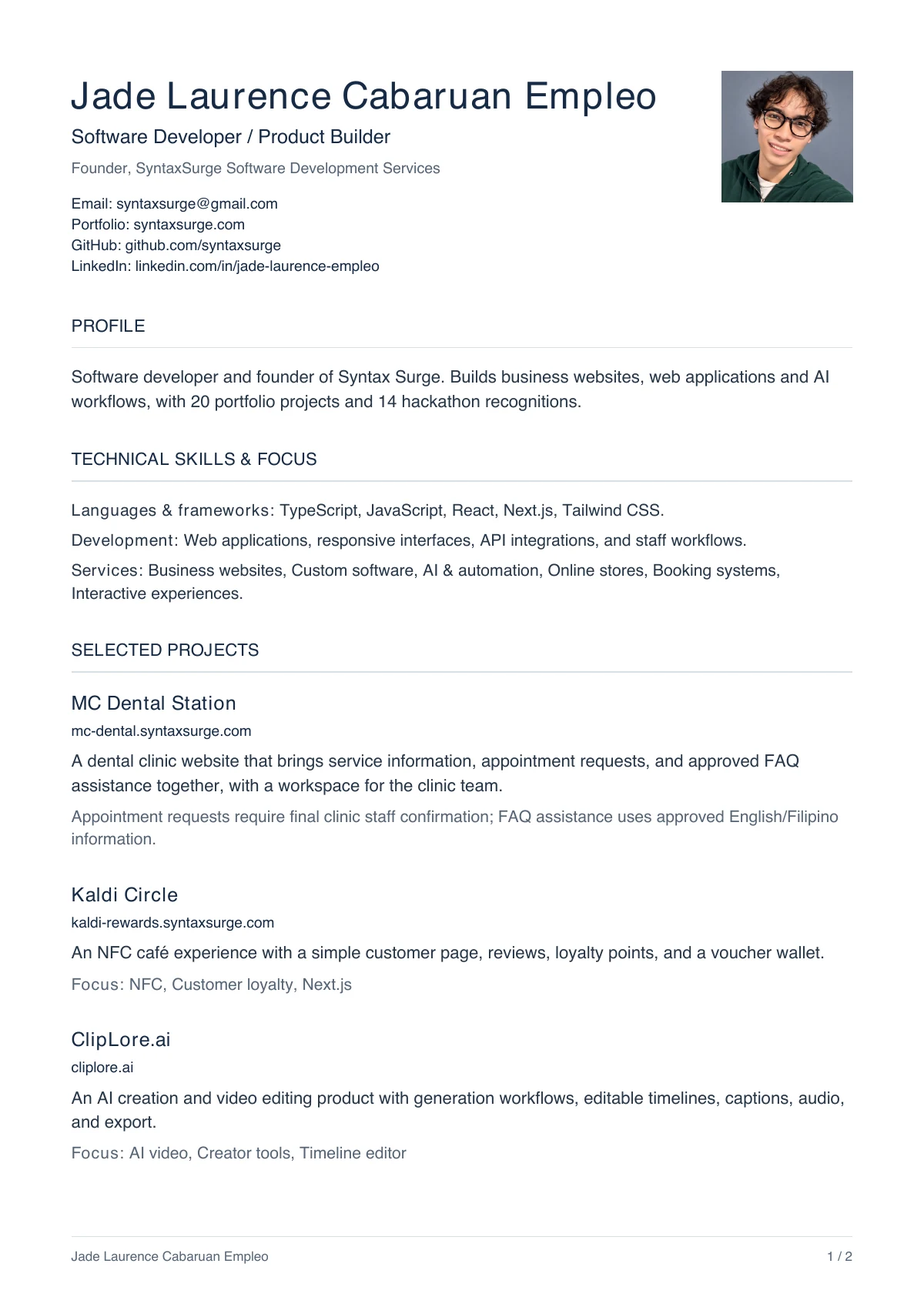
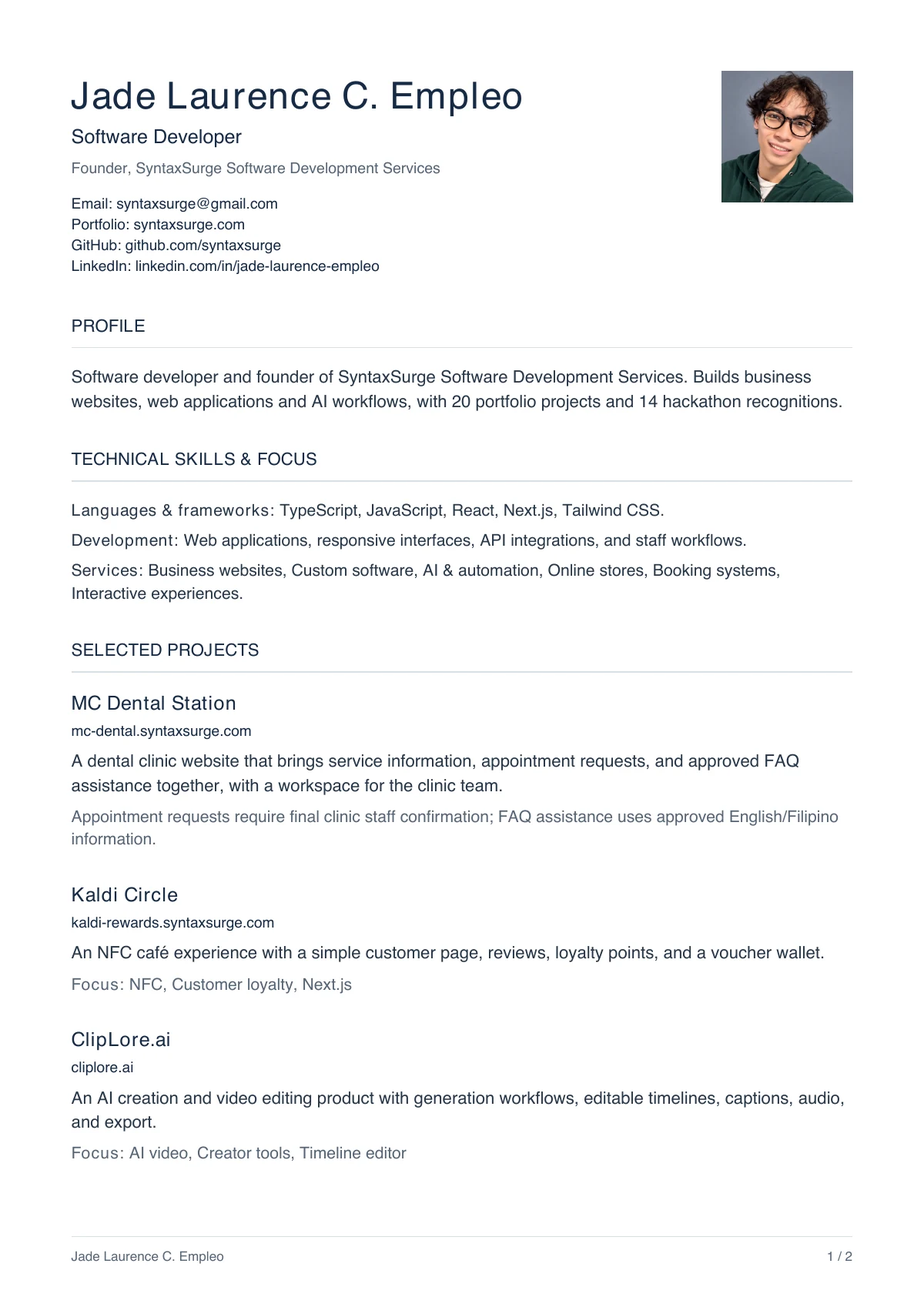
fix(resume): Clarify identity and show recorded award prizes

Changed region(s): [[0.0925, 0.2809, 0.8942, 0.3121], [0.2775, 0.0624, 0.7092, 0.1249], [0.185, 0.9364, 0.2775, 0.9676]]

diff --git a/src/app/recognition/page.tsx b/src/app/recognition/page.tsx
@@ -4,11 +4,11 @@ import { Header } from "@/components/header";
 import { Footer } from "@/components/footer";
 import { AwardCard } from "@/components/award-card";
 import { awards } from "@/data/portfolio";
+import { business } from "@/data/business";
 
 export const metadata: Metadata = {
   title: "Recognition",
-  description:
-    "Explore 14 hackathon recognitions earned by Jade Laurence Empleo, founder of Syntax Surge, with project demos and details.",
+  description: `Explore ${awards.length} hackathon recognitions earned by ${business.founder.name}, founder of ${business.legalName}, with project demos and details.`,
   alternates: { canonical: "/recognition" },
 };
 
@@ -26,8 +26,8 @@ export default function RecognitionPage() {
           <span className="eyebrow section-label">A RECORD OF BUILDING</span>
           <h1>Recognition.</h1>
           <p>
-            {awards.length} hackathon recognitions earned by Jade Laurence
-            Empleo. Explore the projects and their demos.
+            {awards.length} hackathon recognitions earned by {business.founder.name}.
+            Explore the projects and their demos.
           </p>
         </div>
         <div className="awards-grid">

diff --git a/src/data/business.ts b/src/data/business.ts
@@ -11,7 +11,7 @@ export const business = {
     github: "https://github.com/syntaxsurge",
   },
   founder: {
-    name: "Jade Laurence Empleo",
+    name: "Jade Laurence C. Empleo",
     fullName: "Jade Laurence Cabaruan Empleo",
     role: "Founder & Software Developer",
     portrait: {
@@ -26,13 +26,13 @@ export const business = {
       src: "/images/resume-page-1.webp",
       width: 1200,
       height: 1698,
-      alt: "Résumé page 1: Jade Laurence Cabaruan Empleo's profile, contact details, skills, and selected projects",
+      alt: "Résumé page 1: Jade Laurence C. Empleo's profile, contact details, skills, and selected projects",
     },
     {
       src: "/images/resume-page-2.webp",
       width: 1200,
       height: 1698,
-      alt: "Résumé page 2: Jade Laurence Cabaruan Empleo's 14 dated hackathon recognitions",
+      alt: "Résumé page 2: Jade Laurence C. Empleo's 14 dated hackathon recognitions and supplied prizes",
     },
   ],
   workspacePhoto: {

diff --git a/src/components/founder-card.tsx b/src/components/founder-card.tsx
@@ -59,7 +59,7 @@ export function FounderCard() {
         <div className={styles.portrait}>
           <Image
             src={business.founder.portrait.src}
-            alt="Jade Laurence Empleo, founder of Syntax Surge"
+            alt={`${business.founder.name}, founder of ${business.legalName}`}
             width={business.founder.portrait.width}
             height={business.founder.portrait.height}
             sizes="(max-width: 700px) 100vw, 440px"
@@ -152,7 +152,7 @@ export function FounderCard() {
             href={business.links.linkedin}
             target="_blank"
             rel="noopener noreferrer"
-            aria-label="Meet Jade Laurence Empleo on LinkedIn (opens in a new tab)"
+            aria-label={`Meet ${business.founder.name} on LinkedIn (opens in a new tab)`}
           >
             <Arrow diagonal />
           </a>

diff --git a/src/app/globals.css b/src/app/globals.css
@@ -466,6 +466,7 @@ img {
 }
 .award-card-meta {
   display: flex;
+  flex-wrap: wrap;
   justify-content: space-between;
   align-items: center;
   gap: 12px;
@@ -475,6 +476,10 @@ img {
 }
 .award-prize {
   color: var(--accent);
+  font-weight: 600;
+}
+.award-prize strong {
+  font-weight: 700;
 }
 .award-card h2 {
   font-size: 28px;
@@ -616,10 +621,8 @@ img {
 .detail-award .detail-award-meta {
   font-size: 16px;
 }
-.detail-award strong {
-  display: inline-block;
-  margin-top: 13px;
-  font-weight: 700;
+.detail-award .award-prize {
+  font-size: 18px;
   color: var(--accent);
 }
 .project-navigation {

diff --git a/src/app/work/[slug]/page.tsx b/src/app/work/[slug]/page.tsx
@@ -130,7 +130,11 @@ export default async function ProjectPage({
                       { month: "long", year: "numeric", timeZone: "UTC" },
                     )}
                   </p>
-                  {a.prize && <strong>{a.prize}</strong>}
+                  {a.prize && (
+                    <p className="award-prize">
+                      Prize: <strong>{a.prize}</strong>
+                    </p>
+                  )}
                 </div>
               ))
             ) : p.id === "wrap-it-up" ? (

diff --git a/src/components/award-card.tsx b/src/components/award-card.tsx
@@ -59,7 +59,11 @@ export function AwardCard({
               timeZone: "UTC",
             })}
           </time>
-          {award.prize && <span className="award-prize">{award.prize}</span>}
+          {award.prize && (
+            <span className="award-prize">
+              Prize: <strong>{award.prize}</strong>
+            </span>
+          )}
         </div>
         <h2>
           <Link href={`/work/${award.projectId}`}>{project.title}</Link>

diff --git a/scripts/build-resume.py b/scripts/build-resume.py
@@ -25,7 +25,7 @@ from reportlab.platypus import Paragraph
 
 
 ROOT = Path(__file__).resolve().parents[1]
-ROLE = "Software Developer / Product Builder"
+ROLE = "Software Developer"
 WEBSITE = "https://syntaxsurge.com/"
 SELECTED_PROJECTS = ("mc-dental-station", "kaldi", "cliplore-ai")
 PAGE_WIDTH, PAGE_HEIGHT = A4
@@ -106,27 +106,27 @@ def section(pdf, label, y):
     return y - 18
 
 
-def footer(pdf, page, full_name):
+def footer(pdf, page, display_name):
     pdf.setStrokeColor(LINE)
     pdf.setLineWidth(0.65)
     pdf.line(MARGIN, 45, PAGE_WIDTH - MARGIN, 45)
     pdf.setFont("Helvetica", 8.5)
     pdf.setFillColor(MUTED)
-    pdf.drawString(MARGIN, 29, full_name)
+    pdf.drawString(MARGIN, 29, display_name)
     pdf.drawRightString(PAGE_WIDTH - MARGIN, 29, f"{page} / 2")
 
 
 def first_page(pdf, data):
     business = data["business"]
-    full_name = business["founder"]["fullName"]
+    display_name = business["founder"]["name"]
     projects = {project["id"]: project for project in data["projects"]}
     photo_size = 84
     header_width = CONTENT_WIDTH - photo_size - 20
     y = PAGE_HEIGHT - MARGIN
     name_size = 24
-    if stringWidth(full_name, "Helvetica-Bold", name_size) > header_width:
+    if stringWidth(display_name, "Helvetica-Bold", name_size) > header_width:
         name_size = 22
-    y = paragraph(pdf, plain(full_name), y, header_width, style(name_size, 29, True, NAVY))
+    y = paragraph(pdf, plain(display_name), y, header_width, style(name_size, 29, True, NAVY))
     y -= 5
     y = paragraph(pdf, ROLE, y, header_width, style(12.5, 17, color=NAVY))
     y -= 5
@@ -152,7 +152,7 @@ def first_page(pdf, data):
 
     y = section(pdf, "Profile", y)
     summary = (
-        f'Software developer and founder of {business["name"]}. Builds business '
+        f'Software developer and founder of {business["legalName"]}. Builds business '
         "websites, web applications and AI workflows, with "
         f'{len(data["projects"])} portfolio projects and '
         f'{len(data["awards"])} hackathon recognitions.'
@@ -191,16 +191,16 @@ def first_page(pdf, data):
         else:
             y = paragraph(pdf, f'<b>Focus:</b> {plain(", ".join(project["tags"]))}', y, text_style=style(10.5, 14.5, color=MUTED))
         y -= 20
-    footer(pdf, 1, full_name)
+    footer(pdf, 1, display_name)
     pdf.showPage()
 
 
 def recognition_page(pdf, data):
-    full_name = data["business"]["founder"]["fullName"]
+    display_name = data["business"]["founder"]["name"]
     projects = {project["id"]: project for project in data["projects"]}
     awards = sorted(data["awards"], key=lambda award: award["date"], reverse=True)
     y = PAGE_HEIGHT - MARGIN
-    y = paragraph(pdf, plain(full_name), y, text_style=style(14, 19, True, NAVY))
+    y = paragraph(pdf, plain(display_name), y, text_style=style(14, 19, True, NAVY))
     y = paragraph(pdf, ROLE, y - 3, text_style=style(10, 14, color=MUTED))
     y -= 21
     y = paragraph(pdf, "Recognition", y, text_style=style(21, 27, True, NAVY))
@@ -218,17 +218,20 @@ def recognition_page(pdf, data):
         pdf.drawRightString(PAGE_WIDTH - MARGIN, y - 11, f"{calendar.month_abbr[int(month)]} {year}")
         title = f'{project["title"]} - {award["title"]}'
         y = paragraph(pdf, plain(title), y, title_width, style(10.5, 14.5, True, NAVY))
-        y = paragraph(pdf, plain(award["event"]), y - 2, title_width, style(10.3, 14, color=MUTED))
+        event = award["event"]
+        if award.get("prize"):
+            event += f' | Prize: {award["prize"]}'
+        y = paragraph(pdf, plain(event), y - 2, CONTENT_WIDTH, style(10.3, 14, color=MUTED))
         y -= 13
-    footer(pdf, 2, full_name)
+    footer(pdf, 2, display_name)
     pdf.showPage()
 
 
 def write_pdf(path, data):
-    full_name = data["business"]["founder"]["fullName"]
+    display_name = data["business"]["founder"]["name"]
     pdf = canvas.Canvas(str(path), pagesize=A4, pageCompression=1, invariant=True)
-    pdf.setTitle(f"{full_name} - Resume")
-    pdf.setAuthor(full_name)
+    pdf.setTitle(f"{display_name} - Resume")
+    pdf.setAuthor(display_name)
     pdf.setSubject(ROLE)
     pdf.setKeywords("Software Developer, Product Builder, TypeScript, React, Next.js")
     first_page(pdf, data)

diff --git a/docs/RESUME-SOURCES.md b/docs/RESUME-SOURCES.md
@@ -4,20 +4,20 @@
 
 ## Verified source facts
 
-- **Full name:** Jade Laurence Cabaruan Empleo, transcribed from the proprietor name in the supplied original DTI certificate at `public/documents/syntax-surge-dti-certificate.pdf` and stored in `business.founder.fullName`. The professional site profile uses `business.founder.name`, Jade Laurence Empleo.
-- **Role/business:** Software Developer / Product Builder; founder of SyntaxSurge Software Development Services. The founder role and business legal name come from `src/data/business.ts`, with the product-building summary supported by the project record.
-- **Profile and services:** the concise profile reads the business name and the canonical totals of 20 portfolio projects and 14 hackathon recognitions. The service line reads the six titles in `business.services`: business websites, custom software, AI/automation, online stores, booking systems, and interactive experiences. Project totals represent portfolio work, not paid clients.
+- **Name:** the public site and resume use `business.founder.name`, Jade Laurence C. Empleo, with the owner's preferred middle initial. `business.founder.fullName` preserves Jade Laurence Cabaruan Empleo, transcribed from the proprietor name in the supplied original DTI certificate at `public/documents/syntax-surge-dti-certificate.pdf`; the resume does not display that full middle name.
+- **Role/business:** Software Developer; founder of SyntaxSurge Software Development Services. Both the founder line and profile use the complete DTI-registered business name from `business.legalName` in `src/data/business.ts`.
+- **Profile and services:** the concise profile reads the legal business name and the canonical totals of 20 portfolio projects and 14 hackathon recognitions. The service line reads the six titles in `business.services`: business websites, custom software, AI/automation, online stores, booking systems, and interactive experiences. Project totals represent portfolio work, not paid clients.
 - **Photograph:** the unchanged owner-supplied `public/images/jade-laurence-empleo.jpg`, selected through `business.founder.portrait.src`. The complete square image is scaled into a small header photograph; no retouching or replacement image is used.
 - **Contact links:** the owner supplied `syntaxsurge@gmail.com` as the public business email; it is read from `business.email` with its `business.links.email` mailto destination. Existing LinkedIn/GitHub URLs come from `business.links`, plus the public business website `https://syntaxsurge.com/`. No phone number or private address is included, and no message is sent by generating or serving the resume.
 - **Selected projects:** MC Dental Station, Kaldi Circle, and ClipLore.ai (`cliplore-ai`). Their titles, summaries, primary website links, and tags are read from `src/data/portfolio.ts`. ClipLore.ai is the current AI creation and video editing product at `https://cliplore.ai/`; the separate Story Protocol project is not one of these selected product examples. MC Dental's additional note preserves staff confirmation for appointments and approved English/Filipino FAQ assistance.
 - **Technical skills:** TypeScript, JavaScript, React, Next.js, and Tailwind CSS are supported by this site's source and package manifest; application/API integration and staff workflows are also supported by the owner's MC Dental Station repository. Interface/product work and AI experiences are represented by the site services and project examples. No proficiency ratings or years of experience are inferred.
-- **Recognition:** every entry in the canonical `awards` array is included, sorted from newest to oldest. Each lists its project, placement/title, event, and supplied month/year. The Story Protocol recognition belongs to `cliplore`, displayed as ClipLore for Story Protocol; it is not attributed to ClipLore.ai. Titles remain distinct: recognitions are not relabeled as first-place wins, and no prize totals are added. Award provenance remains in `docs/CONTENT-SOURCES.md` and `docs/AWARD-MEDIA-SOURCES.md`.
+- **Recognition:** every entry in the canonical `awards` array is included, sorted from newest to oldest. Each lists its project, placement/title, event, and supplied month/year. Known `award.prize` amounts appear with a `Prize:` prefix; entries without a supplied amount omit that field rather than implying zero. US dollar prizes retain `US$`, and CreatorBank's `2,000 MUSD` retains its token denomination without conversion. The Story Protocol recognition belongs to `cliplore`, displayed as ClipLore for Story Protocol; it is not attributed to ClipLore.ai. Titles remain distinct: recognitions are not relabeled as first-place wins. No aggregate prize total, personal payout or prize-disbursement verification is claimed. Award provenance remains in `docs/CONTENT-SOURCES.md` and `docs/AWARD-MEDIA-SOURCES.md`.
 
 No education, qualifications, employment history, employment dates, client statistics, or revenue claims are invented. The document summarizes the owner's supplied work/award history; it does not assert independent authentication of prize disbursement or government registration status.
 
 ## Rebuild
 
-The editable source is `scripts/build-resume.py`. It reads canonical business/project/award exports through Node's TypeScript stripping support, generates the public PDF with ReportLab, and renders both pages with Poppler before encoding WebP previews with Pillow. There is no separate permanent resume JSON file to synchronize. The concise editorial summary/skills live in the generator; the full name, project/contact/recognition facts, service titles, totals, and portrait path come from site data. `business.resumeHref` supplies the generated PDF path, and `business.resumePreview` supplies each page image path and expected intrinsic dimensions. The generator requires its rendered pages to match those dimensions before publishing.
+The editable source is `scripts/build-resume.py`. It reads canonical business/project/award exports through Node's TypeScript stripping support, generates the public PDF with ReportLab, and renders both pages with Poppler before encoding WebP previews with Pillow. There is no separate permanent resume JSON file to synchronize. The concise editorial summary/skills live in the generator; the display name, legal business name, project/contact/recognition facts and supplied prize amounts, service titles, totals, and portrait path come from site data. `business.resumeHref` supplies the generated PDF path, and `business.resumePreview` supplies each page image path and expected intrinsic dimensions. The generator requires its rendered pages to match those dimensions before publishing.
 
 Use the project's supported Node version, Python with `reportlab`, `Pillow`, and `pypdf`, and Poppler's `pdftoppm`:
 
@@ -29,4 +29,4 @@ If non-default tools are required, set `RESUME_NODE` and `RESUME_PDFTOPPM` to th
 
 Preview pages are 1200 pixels wide, preserve the A4 page ratio, and use WebP quality 88. The PDF uses invariant ReportLab metadata; repeated builds with the same canonical data, authoring dependencies, and font configuration produce identical assets. ReportLab, Pillow, pypdf, Node-based extraction, and Poppler are authoring dependencies only. Deployment serves the committed PDF and images without running Python or rendering a document at request time.
 
-Before publishing a regenerated set, inspect both preview images for spacing, text, the photograph, page numbers, and legibility. Verify the PDF's contact/project link targets and that all canonical award titles/events and all three selected projects remain present. The generator fails if content exceeds its page bounds rather than shrinking text to an unreadable size. This source record and local artifact do not imply that a website update has been deployed.
+Before publishing a regenerated set, inspect both preview images for spacing, text, the photograph, page numbers, and legibility. Verify the PDF's contact/project link targets, display/legal names, supplied prize amounts, and that all canonical award titles/events and all three selected projects remain present. The generator fails if content exceeds its page bounds rather than shrinking text to an unreadable size. This source record and local artifact do not imply that a website update has been deployed.

diff --git a/AGENTS.md b/AGENTS.md
@@ -39,14 +39,14 @@ Analyze → Extend → Simplify → Delete. Every change should either improve c
 
 # Platform Summary
 
-A Next.js App Router business website for SyntaxSurge Software Development Services, branded as Syntax Surge. It presents business websites, custom software, and AI/automation services, with 20 projects and 14 hackathon recognitions earned by founder Jade Laurence Empleo. Supplied business branding, founder photography, and project artwork are served locally. Pages support light and dark themes and responsive, keyboard-accessible navigation.
+A Next.js App Router business website for SyntaxSurge Software Development Services, branded as Syntax Surge. It presents business websites, custom software, and AI/automation services, with 20 projects and 14 hackathon recognitions earned by founder Jade Laurence C. Empleo. Supplied business branding, founder photography, and project artwork are served locally. Pages support light and dark themes and responsive, keyboard-accessible navigation.
 
 ## Pages
 
 - `/`: business overview with the supplied working-session photograph over a local looping hero background, six compact scroll-through illustrated services (`#services`), all 20 visual project cards (`#work`), founder/team (`#team`), business registration (`#registration`), and contact (`#contact`). The shared sticky header uses a single icon-only theme button and icon-labeled native fragment links to homepage Services/Work/Team and the current page's contact footer, including repeated visits to the same section. At widths up to 850px, a hamburger beside the theme button opens vertical navigation; selection, outside click, Escape, and resizing to desktop close it, with Escape restoring trigger focus. Desktop navigation remains inline. Work provides All projects, Websites & apps, Experiments, and Tools filters mapped to canonical project categories, category/result counts, combined search, one-click reset with search focus restoration, and direct details/website actions. Cards present a cover, title, and plain-language summary; video previews use accessible play icons. Hero and team View résumé buttons open one shared native dialog with two scrollable page previews and a persistent PDF download/close toolbar. Escape, backdrop selection and the close button dismiss the dialog and restore focus to the originating button; background scrolling is locked while it is open. The homepage links to the recognition record.
 - `/work`: a permanent redirect to `/#work`; it is not a separate page or sitemap entry.
-- `/recognition`: all 14 founder hackathon recognitions, with four preview highlights and compact cards for the remaining entries. Awards are individual project achievements, not a count of business clients or first-place wins.
-- `/work/[slug]`: statically generated project details with breadcrumbs, product/demo/source actions, a plain-language overview, recognition, and links to the next project and full collection. `/work/wrap-it-up` combines these project details with the game overview, gameplay features, artwork, beta-install actions, and shared Support/Privacy navigation.
+- `/recognition`: all 14 founder hackathon recognitions, with four preview highlights and compact cards for the remaining entries. Cards include labeled prize amounts when supplied. Awards are individual project achievements, not a count of business clients or first-place wins.
+- `/work/[slug]`: statically generated project details with breadcrumbs, product/demo/source actions, a plain-language overview, recognition with a labeled prize amount when supplied, and links to the next project and full collection. Prize currencies retain their original USD or MUSD denomination. `/work/wrap-it-up` combines these project details with the game overview, gameplay features, artwork, beta-install actions, and shared Support/Privacy navigation.
 - `/work/mc-dental-station`: clinic website project details covering staff-confirmed appointment requests, approved English/Filipino FAQ assistance, and the staff workspace; the live website is `https://mc-dental.syntaxsurge.com/`.
 - `/work/cliplore`: ClipLore for Story Protocol, an AI & Web3 project with IP registration, licensing, remixing, and ownership enforcement. Its source repository, hackathon demo, and December 2025 Story Protocol recognition belong to this record.
 - `/work/cliplore-ai`: ClipLore.ai, the current AI creation and video editing product in Products, linking to `https://cliplore.ai/`. Its generation workflows, timeline, captions, audio, and export are presented separately from the Story Protocol project and award.
@@ -60,7 +60,7 @@ There are no application API endpoints, database, authentication, contact form, 
 
 ## Architecture Overview
 
-- `src/data/business.ts` is the canonical source for the business brand/legal name, service descriptions and illustrations, supplied logo, founder professional/full name and portrait, email/contact links, workspace hero photograph, local work-sculpture poster/video, resume path, and registration certificate facts/assets. `certificate.href` points to the original local PDF; `certificate.preview` supplies the rendered image's `src`, `width`, and `height`. `resumeHref` points to the two-page professional resume. `resumePreview` contains the two local WebP page paths, intrinsic dimensions and descriptive alt text. `scripts/build-resume.py` generates the PDF and both page previews together from canonical site data; the site serves these committed assets without a document-rendering service.
+- `src/data/business.ts` is the canonical source for the business brand/legal name, service descriptions and illustrations, supplied logo, founder professional/full name and portrait, email/contact links, workspace hero photograph, local work-sculpture poster/video, resume path, and registration certificate facts/assets. The site and résumé use `founder.name`, Jade Laurence C. Empleo; `founder.fullName` retains the certificate identity. `certificate.href` points to the original local PDF; `certificate.preview` supplies the rendered image's `src`, `width`, and `height`. `resumeHref` points to the two-page professional resume, which uses the complete legal business name and each supplied recognition prize amount in its original currency. Missing prize amounts are omitted. `resumePreview` contains the two local WebP page paths, intrinsic dimensions and descriptive alt text. `scripts/build-resume.py` generates the PDF and both page previews together from canonical site data; the site serves these committed assets without a document-rendering service.
 - `src/data/portfolio.ts` is the canonical project, link, optional project-focus, and award data source. `src/data/award-media.ts` maps all 14 recognitions to authentic local project previews and YouTube demos; `src/data/project-media.ts` supplies media, plain-language summaries, and optional demos for all 20 visual cards, reusing those project previews and official product artwork. Each project has one canonical preview image shared by collection and detail views; collection cards use a 16:9 cover crop, while detail covers use the image's intrinsic aspect ratio. `cliplore` owns the Story Protocol award/demo media; `cliplore-ai` owns the official public workflow preview and product link.
 - Shared components provide business navigation/contact, project artwork, award cards, demo previews, search/filter controls, theme controls and the résumé preview. `ResumePreview` owns one native dialog and context for both `ResumeButton` triggers; preview images mount only while open, and the native dialog supplies focus containment. Its page images match the downloadable PDF on desktop and phones. `AwardCard` supports preview and compact layouts. Business metadata, the social preview, and the favicon use Syntax Surge branding; the supplied logo is preserved.
 - Search/filter state lives in `ProjectArchive`. Its homepage demo actions use a privacy-enhanced inline YouTube player, with one active video at a time, an accessible close control, and focus restoration. No YouTube iframe loads before a play action; project/recognition pages also retain direct external demo links. `src/lib/theme.ts` manages device preference, persisted selections, cross-tab updates, and initialization before visible content.

diff --git a/docs/ASSET-SOURCES.md b/docs/ASSET-SOURCES.md
@@ -5,7 +5,7 @@ Product covers were collected and visually checked on 25 September 2026; supplie
 | File in `public/images` | Source | Treatment and accurate description |
 | --- | --- | --- |
 | `syntaxsurge-logo.jpg` | Original logo supplied by the owner | 640 × 640. Blue lightning bolt and black code brackets on a white background. Copied unchanged; used for business navigation, homepage identity, the social preview, and the self-contained SVG favicon. No redraw, recoloring, or background removal. |
-| `jade-laurence-empleo.jpg` | Original founder photograph supplied by the owner | 1254 × 1254. Jade Laurence Empleo, founder of Syntax Surge. Copied unchanged; displayed in the team section. |
+| `jade-laurence-empleo.jpg` | Original founder photograph supplied by the owner | 1254 × 1254. Jade Laurence C. Empleo, founder of SyntaxSurge Software Development Services. Copied unchanged; displayed in the team section. |
 | `syntax-surge-workspace.webp` | Working-session photograph supplied by the owner | 1200 × 1600, 277,516 bytes. The unchanged local WebP derivative shows the whiteboard, laptops and two people working together. Displayed beside the hero copy on desktop and beneath it on phones, above the video background. A 4:3 crop at 50% 25% retains both people and the desk. |
 | `mc-dental-feature.webp` | Higgsfield GPT Image 2.5 job `80363250-5439-4665-a3ed-cedb538e9c88` | 1600 × 905, 27,420 bytes. Generated clinic concept artwork with a porcelain tooth and abstract appointment/chat/service cards, optimized from the 2688 × 1520 source PNG. It is not a clinic photograph, staff portrait, screenshot, or clinical outcome claim. |
 | `studysoda-cover.webp` | Existing `studyroom/public/media/studysoda-hero.webp`; [StudySoda](https://studysoda.com/) | 1400 × 792. Existing brand artwork: lavender flashcards, a notebook, and a lime soda. Use as a brand cover, not as a screenshot or a claim about product UI. |
@@ -31,7 +31,7 @@ Suggested image descriptions:
 - ClipLore.ai: “ClipLore.ai homepage preview with a video canvas and layered timeline.”
 - ClipLore for Story Protocol: “ClipLore video IP studio homepage in the hackathon demo.”
 - Business logo: “Syntax Surge blue lightning bolt and black code brackets logo”; use empty alt text when the neighboring business name already identifies the navigation link.
-- Founder: “Jade Laurence Empleo, founder of Syntax Surge.”
+- Founder: “Jade Laurence C. Empleo, founder of SyntaxSurge Software Development Services.”
 - MC Dental Station: “MC Dental Station project artwork with a porcelain tooth and abstract appointment, chat, and service cards.”
 
 ## Hero photograph, loop and service illustrations
@@ -64,7 +64,7 @@ The certificate spells the legal name **SYNTAXSURGE SOFTWARE DEVELOPMENT SERVICE
 
 ## Professional resume
 
-`public/documents/jade-laurence-empleo-resume.pdf` is the two-page A4 resume generated by `scripts/build-resume.py` from canonical site data. It includes the unchanged supplied portrait, full name, business email, three project examples, all 14 dated recognitions, and website/profile links. `business.resumeHref` supplies the public path, and `business.founder.fullName` supplies the certificate-confirmed full name. Hero and team View résumé buttons open a shared dialog with a direct download of that PDF. `public/images/resume-page-1.webp` and `resume-page-2.webp` are 1200 × 1698 Poppler renderings of its two pages, optimized as WebP without editing document content. They are 137,994 and 108,682 bytes respectively. The generator stages and verifies all three outputs before publishing them together, so a rendering failure leaves the public documents intact. Preview pages load only when the dialog is open; the application needs no PDF plugin or external document service. The complete source/rebuild record is in `docs/RESUME-SOURCES.md`.
+`public/documents/jade-laurence-empleo-resume.pdf` is the two-page A4 resume generated by `scripts/build-resume.py` from canonical site data. It includes the unchanged supplied portrait, preferred display name with a middle initial, complete DTI-registered business name, business email, three project examples, all 14 dated recognitions with supplied prize amounts, and website/profile links. `business.resumeHref` supplies the public path, and `business.founder.name` supplies Jade Laurence C. Empleo; the certificate-confirmed full name remains internal source data. Hero and team View résumé buttons open a shared dialog with a direct download of that PDF. `public/images/resume-page-1.webp` and `resume-page-2.webp` are 1200 × 1698 Poppler renderings of its two pages, optimized as WebP without editing document content. They are 136,574 and 116,486 bytes respectively. The generator stages and verifies all three outputs before publishing them together, so a rendering failure leaves the public documents intact. Preview pages load only when the dialog is open; the application needs no PDF plugin or external document service. The complete source/rebuild record is in `docs/RESUME-SOURCES.md`.
 
 ## Wrap It Up!
 

diff --git a/docs/CONTENT-SOURCES.md b/docs/CONTENT-SOURCES.md
@@ -14,7 +14,7 @@ The site contains 20 named projects and 14 recognition entries. ClipLore.ai and 
 
 ## Business identity and registration
 
-`src/data/business.ts` stores the supplied business brand **Syntax Surge**, registered legal name **SyntaxSurge Software Development Services**, founder professional name **Jade Laurence Empleo**, full name **Jade Laurence Cabaruan Empleo**, service descriptions, business email, and LinkedIn/GitHub contact links. The team section identifies the founder and does not invent additional staff. Business inquiries use the owner-supplied email through a direct mail link, with LinkedIn also available. There is no contact form or server-side email sender.
+`src/data/business.ts` stores the supplied business brand **Syntax Surge**, registered legal name **SyntaxSurge Software Development Services**, owner-requested professional display name **Jade Laurence C. Empleo**, certificate full name **Jade Laurence Cabaruan Empleo**, service descriptions, business email, and LinkedIn/GitHub contact links. The résumé and site profile use the middle initial; the original registration certificate remains unchanged. The team section identifies the founder and does not invent additional staff. Business inquiries use the owner-supplied email through a direct mail link, with LinkedIn also available. There is no contact form or server-side email sender.
 
 The source is the owner's original `BNRS-Certificate_OPQT791819131516_4fa16974-d870-4131-a5e5-1b61dcec90fd.pdf`, preserved unchanged at `public/documents/syntax-surge-dti-certificate.pdf`. Its extracted business name is **SYNTAXSURGE SOFTWARE DEVELOPMENT SERVICES** (no space between Syntax and Surge), scope **National**, Business Name No. **8161608**, issue date **5 May 2026**, and stated validity **5 May 2026 through 5 May 2031**. The named proprietor is **JADE LAURENCE CABARUAN EMPLEO**. These facts describe the supplied certificate; no independent check of ongoing government registration status is asserted.
 
@@ -22,7 +22,7 @@ The homepage presents the legal name and scope with a locally rendered certifica
 
 ## Resume and project presentation
 
-The downloadable two-page resume uses `business.founder.fullName`, the supplied portrait and business email, website/profile links, MC Dental Station/Kaldi/ClipLore.ai examples, and every dated entry from the canonical awards array. The recognition page attributes the Story Protocol award to the separate ClipLore for Story Protocol project. The resume contains no invented education, employment chronology, or phone number. `scripts/build-resume.py` reads the site exports directly; `business.resumeHref` supplies its public download path. The hero and team View résumé buttons open one preview dialog. Its local page images are rendered from the same generated PDF, and its toolbar provides a direct PDF download. Fact-by-fact sourcing and rebuild instructions are in `docs/RESUME-SOURCES.md`.
+The downloadable two-page resume uses `business.founder.name` with the middle initial, the complete `business.legalName` in the founder attribution and profile, the supplied portrait and business email, website/profile links, MC Dental Station/Kaldi/ClipLore.ai examples, and every dated entry from the canonical awards array. The recognition page attributes the Story Protocol award to the separate ClipLore for Story Protocol project. The résumé, recognition cards and individual project recognition sections display each supplied `award.prize` with its original currency and a Prize label. Missing amounts remain omitted, without zero values or estimated amounts; USD and MUSD are not combined into a total. The resume contains no invented education, employment chronology, or phone number. `scripts/build-resume.py` reads the site exports directly; `business.resumeHref` supplies its public download path. The hero and team View résumé buttons open one preview dialog. Its local page images are rendered from the same generated PDF, and its toolbar provides a direct PDF download. Fact-by-fact sourcing and rebuild instructions are in `docs/RESUME-SOURCES.md`.
 
 All 20 projects appear as visual cards in the homepage work section. `src/data/project-media.ts` combines project-owned previews and product/game artwork with concise summaries. Fourteen homepage demos use their verified YouTube associations, loaded inline only on request. The original Story Protocol demo and recognition are associated only with `cliplore`; `cliplore-ai` describes the current AI editor. Asset provenance and the distinction between project artwork and genuine application captures are recorded in `docs/ASSET-SOURCES.md`. The hero pairs the supplied workspace photograph with a local looping video background. Six original SVG service illustrations represent business websites, internal software, AI/automation, online stores, booking systems, and interactive experiences without asserting actual application interfaces.
 

diff --git a/docs/VALIDATION.md b/docs/VALIDATION.md
@@ -223,3 +223,11 @@ These checks ran locally on macOS. The change has not been committed, pushed, or
 - Native browser verification at 1440×1000, 390×844 and 320×568 covers both themes, hero/team opening, native modal state, loaded page images, independent page scrolling and a persistent download/close toolbar. Escape, close-button and desktop backdrop dismissal restore the originating button's focus and normal document scrolling; reopening starts at page one. Phone controls remain visible without horizontal overflow. Closed previews contain no page images, and no browser warnings or errors were observed.
[1 lines of base64/hex data omitted]
 - The local port-3005 preview is refreshed; dark theme, playing motion and the default viewport are restored. Production hosting is not restarted or reconfigured.
+
+## Résumé identity and recognition prizes — 10 October 2026
+
+- Production build, `pnpm typecheck`, ESLint and all 74 checks pass: 12 theme, 17 motion and 45 generated-artifact checks. Recognition verification checks every award against its own project detail and recognition card, preserving recorded prize strings and omitting amounts that have not been supplied.
+- The two-page A4 résumé uses Jade Laurence C. Empleo in its headers, footers and PDF metadata. Both the founder attribution and profile use SyntaxSurge Software Development Services. All 14 recognition project/title/event pairs, eight supplied prize amounts and seven contact/product links are verified. US dollar and MUSD denominations remain distinct. Both rendered pages were visually inspected without clipping or overlap.
+- Native browser review at 1440×1000 desktop and 390×844 phone verifies labeled project prizes, loaded résumé page previews, the preferred name, visible download/close controls, independent page scrolling and no horizontal overflow. Escape restores the résumé trigger focus. Browser warnings/errors are absent.
[1 lines of base64/hex data omitted]
+- The local production preview is refreshed, with the original theme, motion selection and default viewport preserved. Live hosting is not restarted or reconfigured.
